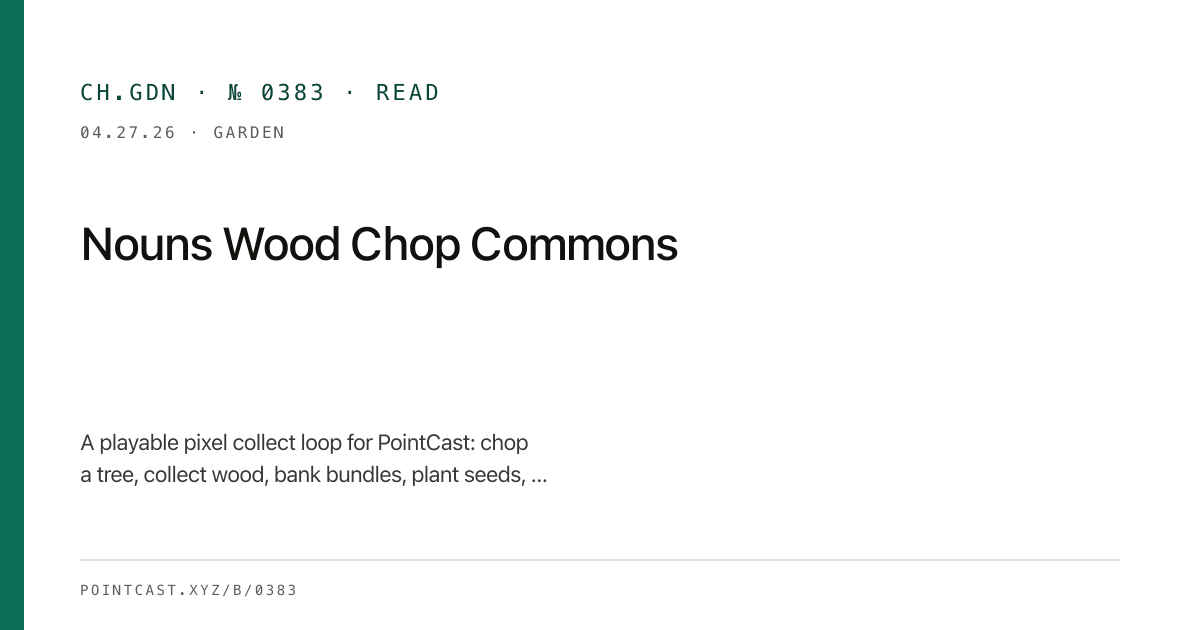
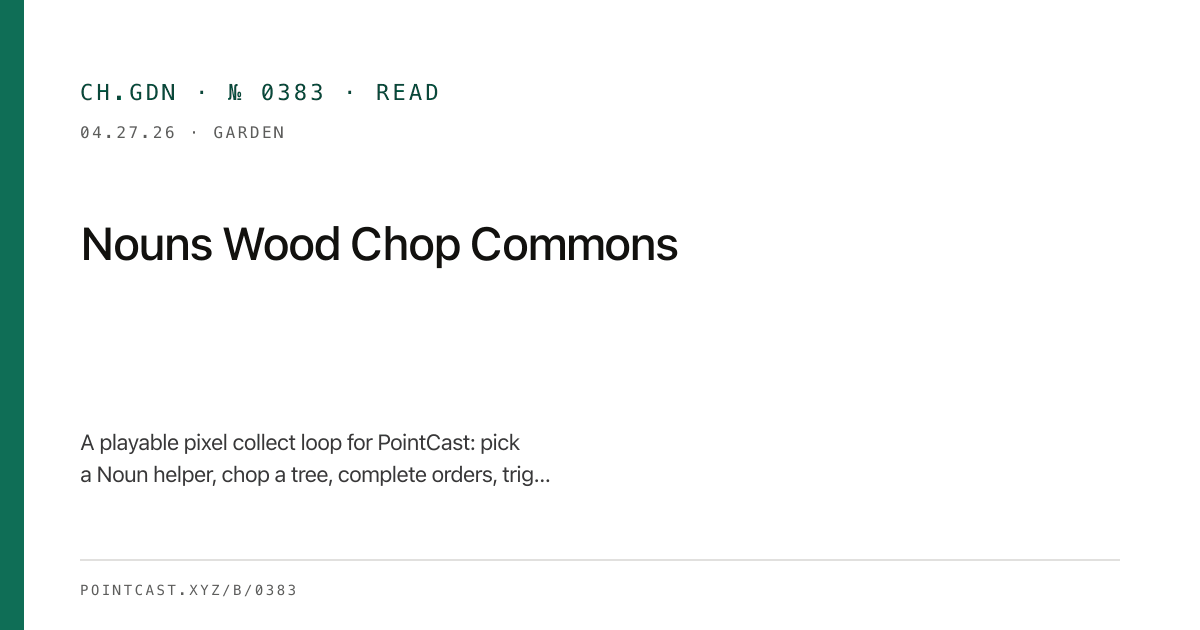
Upgrade Nouns Wood Chop to v3

Changed region(s): [[0.0617, 0.6937, 0.4625, 0.7841]]

diff --git a/src/pages/nouns-wood-chop.json.ts b/src/pages/nouns-wood-chop.json.ts
@@ -7,10 +7,10 @@ const payload = {
   $schema: 'https://pointcast.xyz/for-agents',
   generatedAt: new Date().toISOString(),
   name: 'Nouns Wood Chop Commons',
-  status: 'playable browser prototype v2',
+  status: 'playable browser prototype v3',
   human: 'https://pointcast.xyz/nouns-wood-chop',
   image: 'https://pointcast.xyz/images/nouns-wood-chop/pixel-woodlot.svg',
-  intent: 'A pixel collect loop for PointCast where visitors choose a Noun helper, chop, collect wood, trigger streak rewards, bank bundles, plant seeds, and unlock local Nouns-themed stamps.',
+  intent: 'A pixel collect loop for PointCast where visitors choose a Noun helper, chop, complete orders, charge helper moves, bank bundles, plant seeds, and unlock local Nouns-themed stamps.',
   relationshipToPointCast: {
     playLayer: 'https://pointcast.xyz/play',
     passport: 'https://pointcast.xyz/passport',
@@ -27,6 +27,8 @@ const payload = {
       'fast rhythm builds a streak and improves wood yield',
       'helper skills can add rhythm wood, crit wood, seed drops, or banking energy',
       'eight chops charge a Noun Burst that grants bonus wood and seeds',
+      'six chops charge a helper move with a helper-specific reward animation',
+      'small orders track useful behaviors such as chopping, banking, planting, and trying helpers',
       'tree health reaches zero and the tree falls into extra wood and seeds',
       'bank twelve wood into one bundle',
       'spend seeds to plant a new tree and recover energy',
@@ -38,11 +40,24 @@ const payload = {
       { id: 'palm', noun: 742, label: 'Beach Palm Noun 742', skill: 'Seed scout', effect: 'better seed drops' },
       { id: 'oak', noun: 1042, label: 'Commons Oak Noun 1042', skill: 'Bundle keeper', effect: '+1 energy when banking' },
     ],
+    helperMoves: [
+      { helper: 'cypress', name: 'Rhythm Riff', charge: 'six chops', reward: '+6 wood and +2 Noun Burst' },
+      { helper: 'pine', name: 'Double Crit', charge: 'six chops', reward: '+10 wood and extra tree damage' },
+      { helper: 'palm', name: 'Seed Rain', charge: 'six chops', reward: '+2 seeds and +3 energy' },
+      { helper: 'oak', name: 'Commons Haul', charge: 'six chops', reward: '+8 wood and +3 energy' },
+    ],
+    orders: [
+      { id: 'warm-up', label: 'Warm-up chops', metric: 'totalChops', target: 10, reward: '+8 wood' },
+      { id: 'first-bank', label: 'Bank the commons', metric: 'bundles', target: 1, reward: '+1 seed' },
+      { id: 'plant-care', label: 'Plant care', metric: 'plants', target: 2, reward: '+6 energy' },
+      { id: 'crew-check', label: 'Meet the crew', metric: 'helperVisits', target: 3, reward: '+12 wood' },
+    ],
     resources: [
       { id: 'wood', label: 'Wood', unit: 'pieces', source: 'chops and felled trees' },
       { id: 'bundles', label: 'Bundles', unit: 'banked bundles', source: 'twelve wood per bundle' },
       { id: 'seeds', label: 'Seeds', unit: 'seeds', source: 'tree drops and planting loop' },
       { id: 'energy', label: 'Energy', unit: 'chops remaining', source: 'rest, bank bundles, plant seeds' },
+      { id: 'helperMove', label: 'Helper move', unit: 'charge', source: 'six chops' },
     ],
     stamps: [
       { id: 'first-bundle', label: 'First Bundle', unlockBundles: 1 },
@@ -51,7 +66,7 @@ const payload = {
       { id: 'woodlot-keeper', label: 'Woodlot Keeper', unlockBundles: 8 },
     ],
     storage: {
-      gameState: 'localStorage: pc:nouns-wood-chop:v1',
+      gameState: 'localStorage: pc:nouns-wood-chop:v1 (v3-compatible extended state)',
       passportStamp: 'localStorage: pc:passport:stamps[nouns-wood-chop]',
     },
   },
